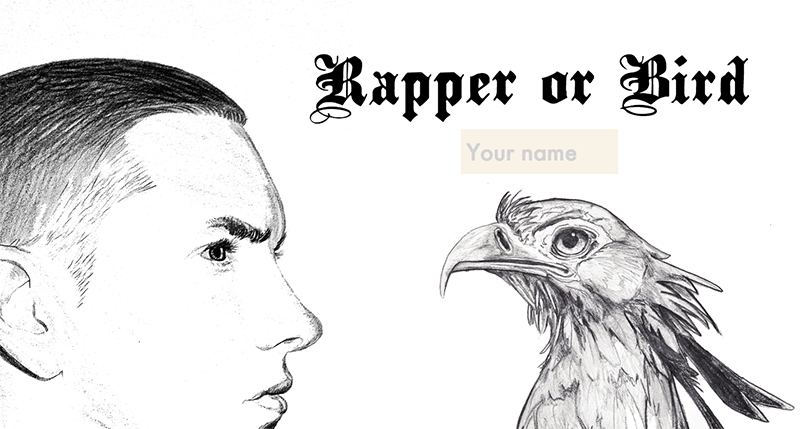
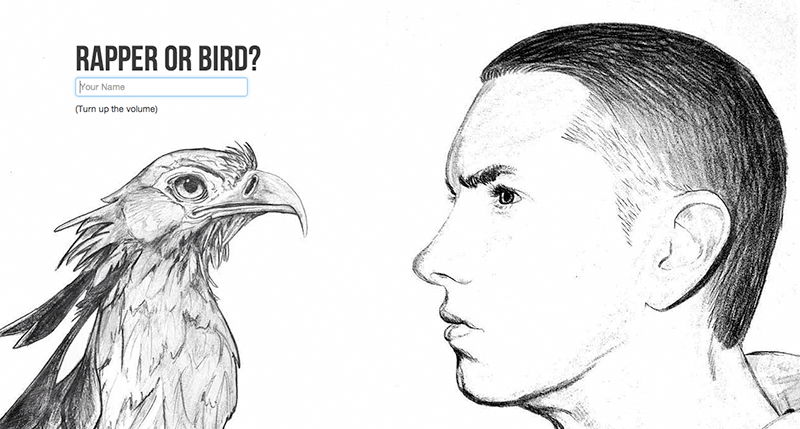
update projects

diff --git a/app/assets/javascripts/jquery.color-2.1.2.min.js b/app/assets/javascripts/jquery.color-2.1.2.min.js
@@ -1,0 +1,2 @@
+/*! jQuery Color v@2.1.2 http://github.com/jquery/jquery-color | jquery.org/license */
+(function(a,b){function m(a,b,c){var d=h[b.type]||{};return a==null?c||!b.def?null:b.def:(a=d.floor?~~a:parseFloat(a),isNaN(a)?b.def:d.mod?(a+d.mod)%d.mod:0>a?0:d.max<a?d.max:a)}function n(b){var c=f(),d=c._rgba=[];return b=b.toLowerCase(),l(e,function(a,e){var f,h=e.re.exec(b),i=h&&e.parse(h),j=e.space||"rgba";if(i)return f=c[j](i),c[g[j].cache]=f[g[j].cache],d=c._rgba=f._rgba,!1}),d.length?(d.join()==="0,0,0,0"&&a.extend(d,k.transparent),c):k[b]}function o(a,b,c){return c=(c+1)%1,c*6<1?a+(b-a)*c*6:c*2<1?b:c*3<2?a+(b-a)*(2/3-c)*6:a}var c="backgroundColor borderBottomColor borderLeftColor borderRightColor borderTopColor color columnRuleColor outlineColor textDecorationColor textEmphasisColor",d=/^([\-+])=\s*(\d+\.?\d*)/,e=[{re:/rgba?\(\s*(\d{1,3})\s*,\s*(\d{1,3})\s*,\s*(\d{1,3})\s*(?:,\s*(\d?(?:\.\d+)?)\s*)?\)/,parse:function(a){return[a[1],a[2],a[3],a[4]]}},{re:/rgba?\(\s*(\d+(?:\.\d+)?)\%\s*,\s*(\d+(?:\.\d+)?)\%\s*,\s*(\d+(?:\.\d+)?)\%\s*(?:,\s*(\d?(?:\.\d+)?)\s*)?\)/,parse:function(a){return[a[1]*2.55,a[2]*2.55,a[3]*2.55,a[4]]}},{re:/#([a-f0-9]{2})([a-f0-9]{2})([a-f0-9]{2})/,parse:function(a){return[parseInt(a[1],16),parseInt(a[2],16),parseInt(a[3],16)]}},{re:/#([a-f0-9])([a-f0-9])([a-f0-9])/,parse:function(a){return[parseInt(a[1]+a[1],16),parseInt(a[2]+a[2],16),parseInt(a[3]+a[3],16)]}},{re:/hsla?\(\s*(\d+(?:\.\d+)?)\s*,\s*(\d+(?:\.\d+)?)\%\s*,\s*(\d+(?:\.\d+)?)\%\s*(?:,\s*(\d?(?:\.\d+)?)\s*)?\)/,space:"hsla",parse:function(a){return[a[1],a[2]/100,a[3]/100,a[4]]}}],f=a.Color=function(b,c,d,e){return new a.Color.fn.parse(b,c,d,e)},g={rgba:{props:{red:{idx:0,type:"byte"},green:{idx:1,type:"byte"},blue:{idx:2,type:"byte"}}},hsla:{props:{hue:{idx:0,type:"degrees"},saturation:{idx:1,type:"percent"},lightness:{idx:2,type:"percent"}}}},h={"byte":{floor:!0,max:255},percent:{max:1},degrees:{mod:360,floor:!0}},i=f.support={},j=a("<p>")[0],k,l=a.each;j.style.cssText="background-color:rgba(1,1,1,.5)",i.rgba=j.style.backgroundColor.indexOf("rgba")>-1,l(g,function(a,b){b.cache="_"+a,b.props.alpha={idx:3,type:"percent",def:1}}),f.fn=a.extend(f.prototype,{parse:function(c,d,e,h){if(c===b)return this._rgba=[null,null,null,null],this;if(c.jquery||c.nodeType)c=a(c).css(d),d=b;var i=this,j=a.type(c),o=this._rgba=[];d!==b&&(c=[c,d,e,h],j="array");if(j==="string")return this.parse(n(c)||k._default);if(j==="array")return l(g.rgba.props,function(a,b){o[b.idx]=m(c[b.idx],b)}),this;if(j==="object")return c instanceof f?l(g,function(a,b){c[b.cache]&&(i[b.cache]=c[b.cache].slice())}):l(g,function(b,d){var e=d.cache;l(d.props,function(a,b){if(!i[e]&&d.to){if(a==="alpha"||c[a]==null)return;i[e]=d.to(i._rgba)}i[e][b.idx]=m(c[a],b,!0)}),i[e]&&a.inArray(null,i[e].slice(0,3))<0&&(i[e][3]=1,d.from&&(i._rgba=d.from(i[e])))}),this},is:function(a){var b=f(a),c=!0,d=this;return l(g,function(a,e){var f,g=b[e.cache];return g&&(f=d[e.cache]||e.to&&e.to(d._rgba)||[],l(e.props,function(a,b){if(g[b.idx]!=null)return c=g[b.idx]===f[b.idx],c})),c}),c},_space:function(){var a=[],b=this;return l(g,function(c,d){b[d.cache]&&a.push(c)}),a.pop()},transition:function(a,b){var c=f(a),d=c._space(),e=g[d],i=this.alpha()===0?f("transparent"):this,j=i[e.cache]||e.to(i._rgba),k=j.slice();return c=c[e.cache],l(e.props,function(a,d){var e=d.idx,f=j[e],g=c[e],i=h[d.type]||{};if(g===null)return;f===null?k[e]=g:(i.mod&&(g-f>i.mod/2?f+=i.mod:f-g>i.mod/2&&(f-=i.mod)),k[e]=m((g-f)*b+f,d))}),this[d](k)},blend:function(b){if(this._rgba[3]===1)return this;var c=this._rgba.slice(),d=c.pop(),e=f(b)._rgba;return f(a.map(c,function(a,b){return(1-d)*e[b]+d*a}))},toRgbaString:function(){var b="rgba(",c=a.map(this._rgba,function(a,b){return a==null?b>2?1:0:a});return c[3]===1&&(c.pop(),b="rgb("),b+c.join()+")"},toHslaString:function(){var b="hsla(",c=a.map(this.hsla(),function(a,b){return a==null&&(a=b>2?1:0),b&&b<3&&(a=Math.round(a*100)+"%"),a});return c[3]===1&&(c.pop(),b="hsl("),b+c.join()+")"},toHexString:function(b){var c=this._rgba.slice(),d=c.pop();return b&&c.push(~~(d*255)),"#"+a.map(c,function(a){return a=(a||0).toString(16),a.length===1?"0"+a:a}).join("")},toString:function(){return this._rgba[3]===0?"transparent":this.toRgbaString()}}),f.fn.parse.prototype=f.fn,g.hsla.to=function(a){if(a[0]==null||a[1]==null||a[2]==null)return[null,null,null,a[3]];var b=a[0]/255,c=a[1]/255,d=a[2]/255,e=a[3],f=Math.max(b,c,d),g=Math.min(b,c,d),h=f-g,i=f+g,j=i*.5,k,l;return g===f?k=0:b===f?k=60*(c-d)/h+360:c===f?k=60*(d-b)/h+120:k=60*(b-c)/h+240,h===0?l=0:j<=.5?l=h/i:l=h/(2-i),[Math.round(k)%360,l,j,e==null?1:e]},g.hsla.from=function(a){if(a[0]==null||a[1]==null||a[2]==null)return[null,null,null,a[3]];var b=a[0]/360,c=a[1],d=a[2],e=a[3],f=d<=.5?d*(1+c):d+c-d*c,g=2*d-f;return[Math.round(o(g,f,b+1/3)*255),Math.round(o(g,f,b)*255),Math.round(o(g,f,b-1/3)*255),e]},l(g,function(c,e){var g=e.props,h=e.cache,i=e.to,j=e.from;f.fn[c]=function(c){i&&!this[h]&&(this[h]=i(this._rgba));if(c===b)return this[h].slice();var d,e=a.type(c),k=e==="array"||e==="object"?c:arguments,n=this[h].slice();return l(g,function(a,b){var c=k[e==="object"?a:b.idx];c==null&&(c=n[b.idx]),n[b.idx]=m(c,b)}),j?(d=f(j(n)),d[h]=n,d):f(n)},l(g,function(b,e){if(f.fn[b])return;f.fn[b]=function(f){var g=a.type(f),h=b==="alpha"?this._hsla?"hsla":"rgba":c,i=this[h](),j=i[e.idx],k;return g==="undefined"?j:(g==="function"&&(f=f.call(this,j),g=a.type(f)),f==null&&e.empty?this:(g==="string"&&(k=d.exec(f),k&&(f=j+parseFloat(k[2])*(k[1]==="+"?1:-1))),i[e.idx]=f,this[h](i)))}})}),f.hook=function(b){var c=b.split(" ");l(c,function(b,c){a.cssHooks[c]={set:function(b,d){var e,g,h="";if(d!=="transparent"&&(a.type(d)!=="string"||(e=n(d)))){d=f(e||d);if(!i.rgba&&d._rgba[3]!==1){g=c==="backgroundColor"?b.parentNode:b;while((h===""||h==="transparent")&&g&&g.style)try{h=a.css(g,"backgroundColor"),g=g.parentNode}catch(j){}d=d.blend(h&&h!=="transparent"?h:"_default")}d=d.toRgbaString()}try{b.style[c]=d}catch(j){}}},a.fx.step[c]=function(b){b.colorInit||(b.start=f(b.elem,c),b.end=f(b.end),b.colorInit=!0),a.cssHooks[c].set(b.elem,b.start.transition(b.end,b.pos))}})},f.hook(c),a.cssHooks.borderColor={expand:function(a){var b={};return l(["Top","Right","Bottom","Left"],function(c,d){b["border"+d+"Color"]=a}),b}},k=a.Color.names={aqua:"#00ffff",black:"#000000",blue:"#0000ff",fuchsia:"#ff00ff",gray:"#808080",green:"#008000",lime:"#00ff00",maroon:"#800000",navy:"#000080",olive:"#808000",purple:"#800080",red:"#ff0000",silver:"#c0c0c0",teal:"#008080",white:"#ffffff",yellow:"#ffff00",transparent:[null,null,null,0],_default:"#ffffff"}})(jQuery);

diff --git a/app/assets/stylesheets/application.css b/app/assets/stylesheets/application.css
@@ -12,6 +12,19 @@
  *= require_tree .
  */
 
+ @font-face {
+    font-family: 'proximanova-light';
+    src: url('proximanova-light-webfont.eot');
+    src: url('proximanova-light-webfont.eot?#iefix') format('embedded-opentype'),
+         url('proximanova-light-webfont.woff') format('woff'),
+         url('proximanova-light-webfont.ttf') format('truetype');
+    font-weight: normal;
+    font-style: normal;
+}
+
+a {
+  text-decoration: none;
+}
 
 a:active,
 a:hover {
@@ -30,7 +43,7 @@ body {
   text-size-adjust: 100%;
   color: #37302a;
   background: #fff;
-  font: normal 100%/1.4 sans-serif;
+  font: normal 100%/1.4 proximanova-light;
   margin: 0 auto;
 }
 
@@ -94,6 +107,12 @@ h2 {
   text-align: left;
 }
 
+img {
+  display: inline-block;
+  height: auto;
+  max-width: 100%;
+}
+
 .gravatar {
   width:90px;
   margin: 0 auto;
@@ -130,10 +149,13 @@ h2 {
   color:#CCC;
 }
 
-
 .about-title {
   font-size: 36px;
   text-align: center;
+}
+
+#work {
+  margin-top: 60px;
 }
 
 .work-entry {
@@ -159,10 +181,23 @@ z-index: -1;
 width:100%;
 height:100%;
 top:0;
+display: table;
 }
 
-.project, .description, .languages {
-  text-align: center;
+@media only screen and (min-width : 0) and (max-width : 800px) {
+  .work-entry {
+    width: 100%;
+    height: auto;
+  }
+  .work-text {
+    display: none;
+  }
+}
+
+.all-text {
+  display: table-cell;
+  vertical-align: middle;
+  padding: 0 20%;
 }
 
 .description, .languages {
@@ -176,20 +211,12 @@ top:0;
   z-index: 200;
 }
 
-.languages {
-  margin-top: 20px;
-}
-
-.project {
-  margin-top: 160px;
-}
-
 .work-image {
   z-index:-2;
 }
 
 .contact {
-  margin-top: 200px;
+  margin-top: 50px;
 }
 
 .entry-title {

diff --git a/app/assets/javascripts/application.js b/app/assets/javascripts/application.js
@@ -14,22 +14,27 @@
 //= require jquery_ujs
 
 $(document).ready(function(){
-  var $nav = $('#container');
-  var $about = $('#about');
-  var $work = $('#work');
-  var $contact = $('#contact');
-  var top = $nav.offset().top;
-  var bottom = top + $nav.height();
 
   $(function(){
     $(".work-image").hover(
     function() {
-        $(this).stop().animate({"opacity": "0.05"}, 350);
+        $(this).stop().animate({"opacity": "0.05"}, 50);
     },
     function() {
-        $(this).stop().animate({"opacity": "1"}, 350);
+        $(this).stop().animate({"opacity": "1"}, 50);
     });
   });
+
+  $(function(){
+    $("#nav ul li a").hover(
+    function() {
+        $(this).stop().css({ "background-color" : "#f43000"});
+    },
+    function() {
+        $(this).stop().css({ "background-color" : "#f4421a"});
+    });
+  });
+
 
 
 });

diff --git a/config/routes.rb b/config/routes.rb
@@ -6,7 +6,7 @@ Personal::Application.routes.draw do
   match 'work' => 'home#work'
   match 'resume' => 'home#resume'
 
-  root :to => "home#index"
+  root :to => "home#about"
 
   # The priority is based upon order of creation:
   # first created -> highest priority.
